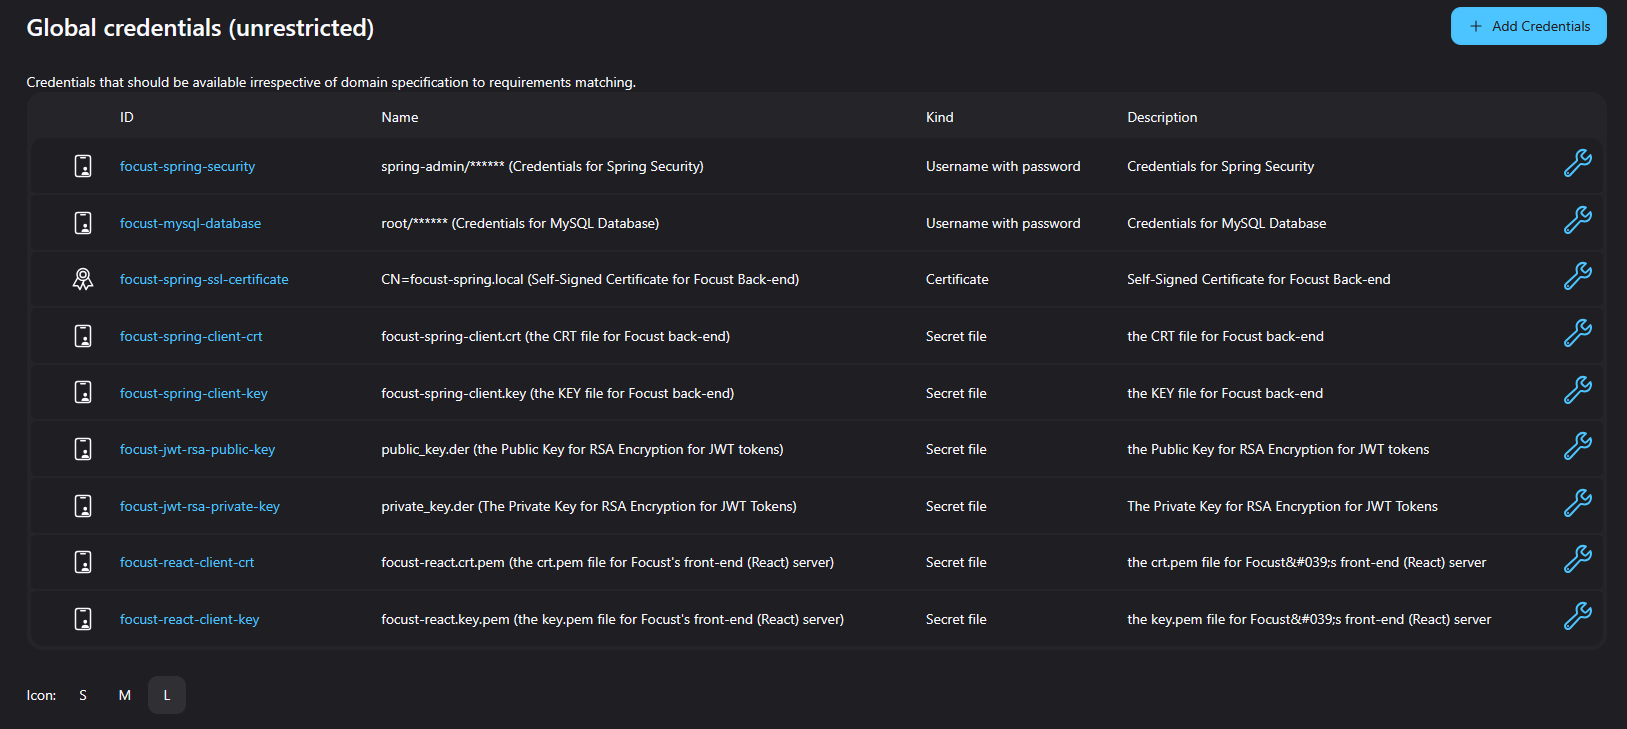
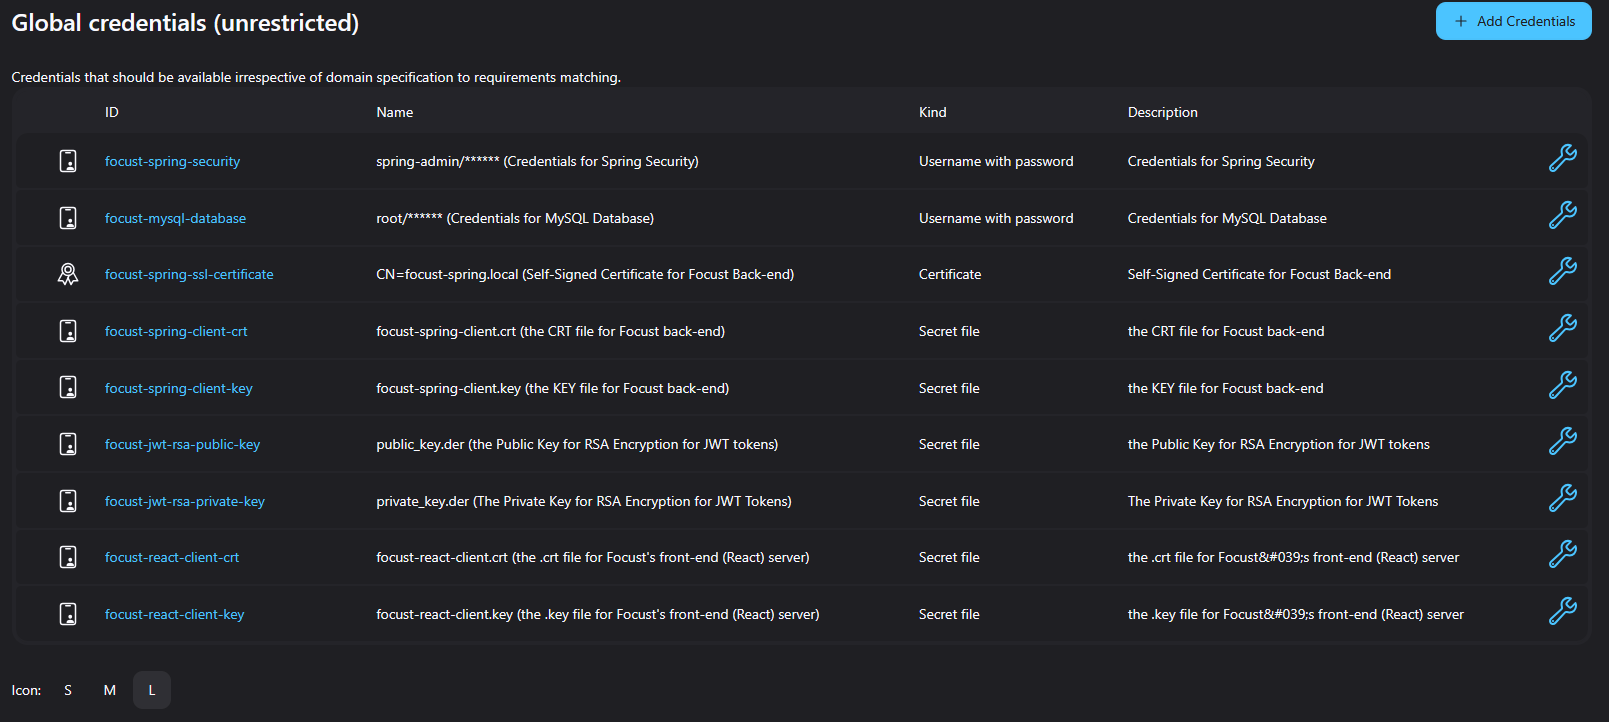
Changed credentials from .pem files to .crt and .key files
For this commit, I realized that I could use `.crt` and `.key` files in the `vite.config.ts` file, so I modified the code to accept them. I also made the `react/Dockerfile` more akin to the `spring/Dockerfile` by storing the `.crt` file into `/usr/local/share/ca-certificates/focust-spring-client.crt` and run `update-ca-certificates`.

diff --git a/react/vite.config.ts b/react/vite.config.ts
@@ -35,8 +35,8 @@ export default defineConfig({
       port: 5443,
       host: true,
       https: {
-        key: '/etc/ssl/certs/focust-react.key.pem',
-        cert: '/etc/ssl/certs/focust-react.crt.pem',
+        key: '/etc/ssl/certs/focust-react-client.key',
+        cert: '/usr/local/share/ca-certificates/focust-spring-client.crt',
       }
     },
 });

diff --git a/resources/docs/BUILD_USING_JENKINS.md b/resources/docs/BUILD_USING_JENKINS.md
@@ -47,14 +47,14 @@ The next credential needed is an **certificate** credential, where you upload an
 
 * `focust-spring-ssl-certificate` - to enable HTTPS for the Spring Application; `focust-spring` and `focust-spring.p12` are the values for *alias* and the *keystore*, respectively.
 
-The final 6 credentials needed are **Secret File** credentials, where you upload both the generated `.crt` and `.key` files of the `focust-spring.p12` (i.e. `focust-spring-client.crt` and `focust-spring-client.key`), the RSA public and private key files (i.e. `public_key.der` and `private_key.der`) used to sign and verify JWT tokens, and the PEM files (i.e. `focust-react.crt.pem` and `focust-react.key.pem`) files that are generated by another file called `focust-react.p12`.
+The final 6 credentials needed are **Secret File** credentials, where you upload both the generated `.crt` and `.key` files of the `focust-spring.p12` (i.e. `focust-spring-client.crt` and `focust-spring-client.key`), the RSA public and private key files (i.e. `public_key.der` and `private_key.der`) used to sign and verify JWT tokens, and the generated `.crt` and `.key` files of `focust-react.p12` (i.e. `focust-react-client.crt` and `focust-react-client.key`).
 
 * `focust-spring-client-crt` - the `focust-spring-client.crt` file.
 * `focust-spring-client-key` - the `focust-spring-client.key` file.
 * `focust-jwt-rsa-public-key` - the `public_key.der` file.
 * `focust-jwt-rsa-private-key` - the `private_key.der` file.
-* `focust-react-client-crt` - the `focust-react.crt.pem` file.
-* `focust-react-client-key` - the `focust-react.key.pem` file.
+* `focust-react-client-crt` - the `focust-react-client.crt` file.
+* `focust-react-client-key` - the `focust-react-client.key` file.
 
 In the end, you should have the following 9 credentials under *Manage Jenkins* > *Credentials*:
 

diff --git a/resources/docs/BUILD_USING_DOCKER.md b/resources/docs/BUILD_USING_DOCKER.md
@@ -97,12 +97,18 @@ docker run -d --name focust-spring^
 ## React Application
 
 ### SSL Certificate
-For the React server, you will need two PEM files: `focust-react.crt.pem` and `focust-react.key.pem` files. The easiest way to do this is to generate a `focust-react.p12` file in the same way as we created the `focust-spring.p12` for the Spring application. For more information, please reference the [**SSL Certificate**](#ssl-certificate) section for the Spring application.
+For the React server, you will need two PEM files: `focust-react-client.crt` and `focust-react-client.key` files. The easiest way to do this is to generate a `focust-react.p12` file in the same way as we created the `focust-spring.p12` for the Spring application. For more information, please reference the [**SSL Certificate**](#ssl-certificate) section for the Spring application.
 
-Next, we simply use `openssl` to generate the two pem files, as follows:
+Commands for the `focust-react-client.crt` file:
 ```sh
-openssl pkcs12 -in focust-react.p12 -passin 'pass:[PASSWORD]' -out focust-react.crt.pem -passout 'pass:[PASSWORD]' -clcerts -nokeys
+openssl pkcs12 -in focust-spring.p12 -passin 'pass:[PASSWORD]' -out focust-spring.crt.pem -passout 'pass:[PASSWORD]' -clcerts -nokeys
+openssl x509 -in focust-spring.crt.pem -passin 'pass:[PASSWORD]' -out focust-spring-client.crt
+```
+
+Commands for the `focust-react-client.key` file:
+```sh
 openssl pkcs12 -in focust-react.p12 -passin 'pass:[PASSWORD]' -out focust-react.key.pem -passout 'pass:[PASSWORD]' -nocerts -nodes
+openssl pkey -in focust-react.key.pem -passin 'pass:[PASSWORD]' -out focust-react-client.key
 ```
 
 Where `[PASSWORD]` is the password used to create `focust-react.p12` (make sure it is different from the password used to generate `focust-spring.p12`).
